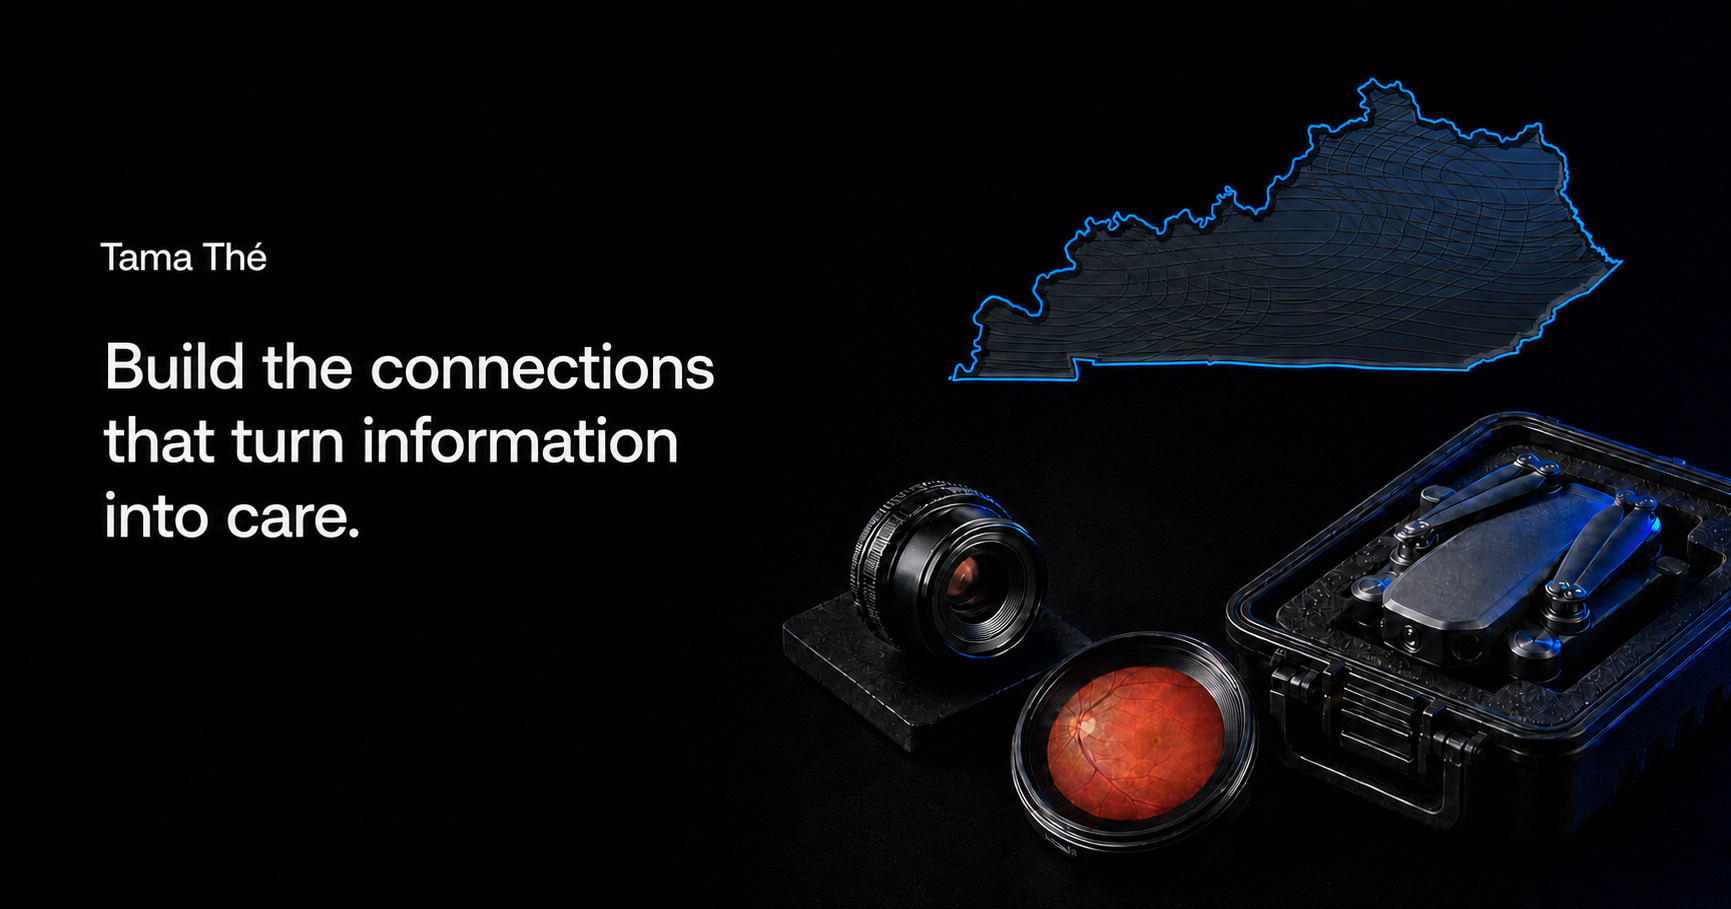
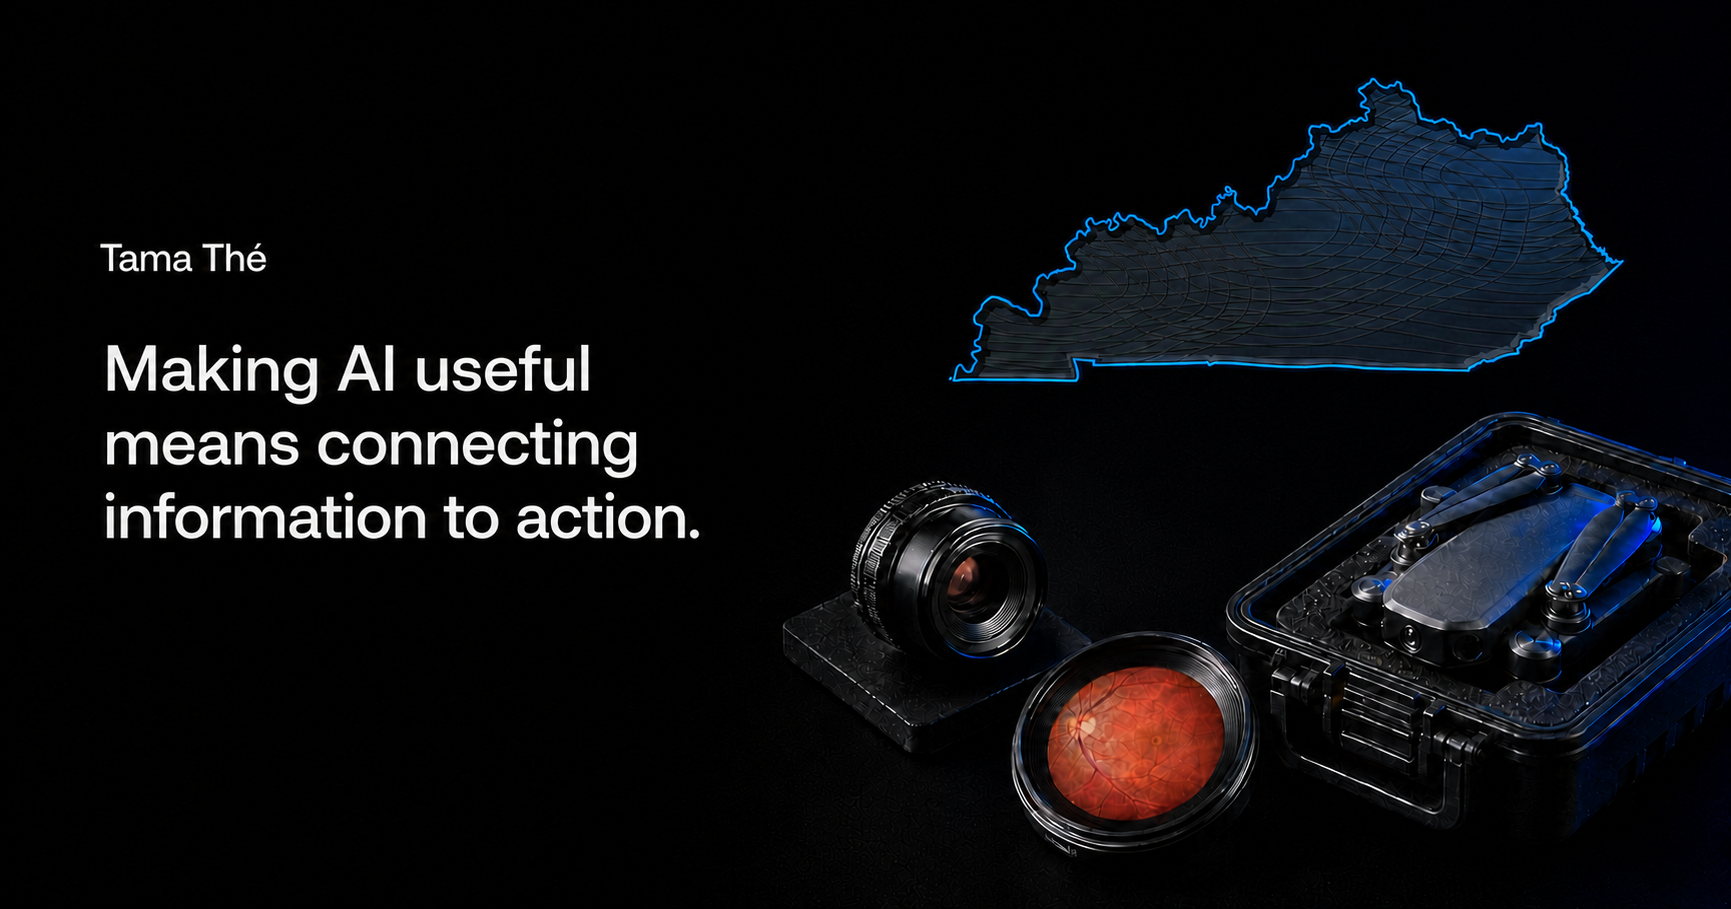
unify site around connecting information to action

diff --git a/src/pages/SpeakingPage.tsx b/src/pages/SpeakingPage.tsx
@@ -24,29 +24,29 @@ export function SpeakingPage() {
 
         <div className="shell video-led-hero-message">
           <div>
-            <p className="page-kicker">Kentucky / Healthcare / AI</p>
+            <p className="page-kicker">Healthcare / Education / Public systems</p>
             <h1>{siteIdentity.thesis}</h1>
           </div>
           <div className="video-led-hero-summary">
             <p>
-              Kentucky already has many of the clinical signals that could help
-              us identify risk earlier. The work is connecting them across
-              institutions and carrying the result all the way to care.
+              AI becomes useful when information reaches the people who can act
+              on it—and when the next step actually happens. My work connects
+              healthcare, education, and public systems around that problem.
             </p>
             <div className="hero-actions">
               <a
                 className="button button-primary"
-                href="#featured-talk"
+                href="#mission"
                 data-analytics-id="hero-watch-argument"
               >
-                Watch the argument <span aria-hidden="true">↓</span>
+                See the throughline <span aria-hidden="true">↓</span>
               </a>
               <a
                 className="button button-outline"
-                href="#mission"
+                href="#featured-talk"
                 data-analytics-id="hero-read-mission"
               >
-                Read the mission
+                Watch the argument
               </a>
             </div>
           </div>
@@ -60,14 +60,13 @@ export function SpeakingPage() {
       >
         <div className="shell mission-case-grid">
           <div className="mission-case-copy">
-            <p className="section-index">The mission</p>
-            <h2 id="mission-title">Finding risk earlier is not enough.</h2>
+            <p className="section-index">The throughline</p>
+            <h2 id="mission-title">The output is not the outcome.</h2>
             <p>
-              Kentucky already has many of the signals. The missing piece is
-              carrying them across organizations, through outreach and
-              referral, and all the way to completed care. That requires the
-              state, universities, health systems, payers, and community
-              providers to build the connections together.
+              A prediction, score, or polished answer can still leave the real
+              problem untouched. The work is designing what happens next: who
+              receives the information, what decision it changes, who owns the
+              follow-through, and how we learn whether it helped.
             </p>
           </div>
 
@@ -79,8 +78,8 @@ export function SpeakingPage() {
               decoding="async"
             />
             <figcaption>
-              <span>The last mile is the whole point.</span>
-              <span>One state / Many systems / Shared responsibility</span>
+              <span>Connect the signal to the next step.</span>
+              <span>Information / Judgment / Action</span>
             </figcaption>
           </figure>
         </div>
@@ -93,15 +92,15 @@ export function SpeakingPage() {
       >
         <div className="shell featured-talk-grid">
           <div className="featured-talk-copy">
-            <p className="section-index">The argument in public / NBME NICE 2026</p>
+            <p className="section-index">One public case / NBME NICE 2026</p>
             <h2 id="featured-talk-title">
-              What if healthcare AI were shared infrastructure?
+              Shared information should produce a useful next step.
             </h2>
             <p>
               In this excerpt, I make the case for governed connections across
-              existing systems—not one giant database or one institution
-              owning every record. The test is whether the network returns a
-              useful next step to the person responsible for care.
+              existing healthcare systems. The goal is not one giant database.
+              It is a network that returns something useful to the person
+              responsible for the next step in care.
             </p>
             <div className="featured-talk-details" aria-label="Video details">
               <span>1:23 excerpt</span>
@@ -147,13 +146,13 @@ export function SpeakingPage() {
 
       <section className="mission-work" id="work" aria-labelledby="work-title">
         <div className="shell section-intro">
-          <p className="section-index">The work</p>
+          <p className="section-index">Healthcare / From signal to care</p>
           <div>
-            <h2 id="work-title">The same problem, seen from different places.</h2>
+            <h2 id="work-title">Three projects. One operating question.</h2>
             <p>
-              These projects begin with different clinical needs. Each one asks
-              what has to happen between identifying a possibility, completing
-              the next step, and learning where people are still being missed.
+              What has to happen after useful information becomes available?
+              Each project connects a signal to a decision, a responsible
+              person, and a way to see whether the next step was completed.
             </p>
           </div>
         </div>
@@ -200,14 +199,13 @@ export function SpeakingPage() {
       >
         <div className="shell story-grid">
           <div className="story-copy">
-            <p className="section-index">Building capacity / TEK 100</p>
-            <h2 id="tek100-title">Teach the principles that survive the next tool.</h2>
+            <p className="section-index">Education / Build the judgment</p>
+            <h2 id="tek100-title">People need practice turning AI output into a decision.</h2>
             <p>
-              Shared infrastructure is not only technical. People across the
-              system need enough practical understanding to test AI, recognize
-              its limits, and decide when it belongs in the work. TEK 100 is a
-              foundational, hands-on AI literacy course co-created for
-              University of Kentucky students.
+              Connecting information to action requires people who can test AI,
+              recognize its limits, and decide when it belongs in the work.
+              TEK 100 gives University of Kentucky students that practice
+              through foundational, hands-on AI literacy.
             </p>
             <div className="featured-talk-details" aria-label="Video details">
               <span>0:31 excerpt</span>
@@ -248,14 +246,13 @@ export function SpeakingPage() {
       >
         <div className="shell story-grid story-grid-media-first">
           <div className="story-copy">
-            <p className="section-index">Building relationships / AI Incubator</p>
-            <h2 id="incubator-feature-title">Give unfinished ideas somewhere to go.</h2>
+            <p className="section-index">Community / Put ideas to work</p>
+            <h2 id="incubator-feature-title">Give unfinished ideas a path to action.</h2>
             <p>
               The AI Incubator gives students, faculty, and staff a place to
-              test ideas with people outside their usual lanes. It is one way
-              to build the relationships this mission requires: bring the
-              problem into the room, find the missing expertise, and move
-              toward a small, testable next step.
+              bring a real problem into the room, find the missing expertise,
+              and move toward a small, testable next step. The community is how
+              ideas cross the disciplinary lines that usually keep them stuck.
             </p>
             <div className="featured-talk-details" aria-label="Video details">
               <span>0:58 film</span>
@@ -310,14 +307,15 @@ export function SpeakingPage() {
             <p>Official recording · KY LRC Committee Meetings</p>
           </div>
           <div className="legislature-copy">
-            <p className="section-index">Public leadership / Kentucky</p>
+            <p className="section-index">Public systems / Build shared direction</p>
             <h2 id="legislature-title">
               Artificial Intelligence at the University of Kentucky
             </h2>
             <p>
-              A presentation to the Kentucky General Assembly Artificial
-              Intelligence Task Force on AI work across the university and UK
-              HealthCare, presented with Hubert Ballard, MD.
+              Presented with Hubert Ballard, MD, this briefing to the Kentucky
+              General Assembly Artificial Intelligence Task Force connected AI
+              work across the university and UK HealthCare to a larger question:
+              what Kentucky needs in order to act together.
             </p>
             <dl className="legislature-details">
               <div>
@@ -352,18 +350,18 @@ export function SpeakingPage() {
         aria-labelledby="engagements-title"
       >
         <div className="shell section-intro">
-          <p className="section-index">Speaking / Selected engagements</p>
+          <p className="section-index">Speaking / Testing the work in public</p>
           <div>
-            <h2 id="engagements-title">Take the argument into the room.</h2>
+            <h2 id="engagements-title">Take the hard part into the room.</h2>
             <p>
-              Talks, workshops, and public conversations are one way I test
-              these ideas with the people who have to build, govern, teach, and
-              use the systems in practice.
+              I use talks, workshops, and public conversations to test these
+              ideas with the people who have to build, govern, teach, and use
+              the systems in practice.
             </p>
           </div>
         </div>
         <div className="shell">
-          <EngagementList engagements={engagements} />
+          <EngagementList engagements={engagements.slice(0, 6)} />
         </div>
       </section>
 
@@ -386,11 +384,11 @@ export function SpeakingPage() {
           </figure>
           <div className="speaker-kit-copy">
             <p className="section-index">Collaboration / Speaking</p>
-            <h2 id="speaker-kit-title">Bring me the part that does not fit neatly.</h2>
+            <h2 id="speaker-kit-title">Start with the problem that crosses the lines.</h2>
             <p>
-              {siteIdentity.bio} I work with people who are trying to connect
-              the technical possibility to the institutional and human work
-              required to make it useful.
+              {siteIdentity.bio} I work with people who need to connect a
+              technical possibility to the institutional and human work that
+              makes it useful.
             </p>
             <div className="speaker-kit-actions">
               <a

diff --git a/index.html b/index.html
@@ -7,15 +7,15 @@
     <meta name="color-scheme" content="dark" />
     <meta
       name="description"
-      content="Tama Thé's work to build the connections that turn health information and AI into completed care across Kentucky."
+      content="Tama Thé connects information to action across healthcare, education, and public systems in Kentucky."
     />
     <link rel="canonical" href="/" />
     <meta property="og:type" content="website" />
     <meta property="og:site_name" content="Tama Thé, MD" />
-    <meta property="og:title" content="Tama Thé, MD | Turning information into care" />
+    <meta property="og:title" content="Tama Thé, MD | Making AI useful" />
     <meta
       property="og:description"
-      content="Tama Thé's work to build the connections that turn health information and AI into completed care across Kentucky."
+      content="Tama Thé connects information to action across healthcare, education, and public systems in Kentucky."
     />
     <meta property="og:url" content="/" />
     <meta property="og:image" content="/og.png" />
@@ -23,16 +23,16 @@
     <meta property="og:image:height" content="909" />
     <meta
       property="og:image:alt"
-      content="Tama Thé — Build the connections that turn information into care, shown beside a sculpted Kentucky map, retinal imaging elements, and a transport drone case."
+      content="Tama Thé — Making AI useful means connecting information to action, shown beside a Kentucky map, retinal imaging elements, and a transport drone case."
     />
     <meta name="twitter:card" content="summary_large_image" />
-    <meta name="twitter:title" content="Tama Thé, MD | Turning information into care" />
+    <meta name="twitter:title" content="Tama Thé, MD | Making AI useful" />
     <meta
       name="twitter:description"
-      content="Tama Thé's work to build the connections that turn health information and AI into completed care across Kentucky."
+      content="Tama Thé connects information to action across healthcare, education, and public systems in Kentucky."
     />
     <meta name="twitter:image" content="/og.png" />
-    <title>Tama Thé, MD | Turning information into care</title>
+    <title>Tama Thé, MD | Making AI useful</title>
   </head>
   <body>
     <div id="root"></div>

diff --git a/src/styles.css b/src/styles.css
@@ -1272,7 +1272,7 @@ a {
 
 .video-led-hero-stage {
   position: relative;
-  height: clamp(380px, 58svh, 680px);
+  height: clamp(300px, 43svh, 520px);
   overflow: hidden;
   background: #020202;
 }
@@ -1360,19 +1360,19 @@ a {
 }
 
 .video-led-hero-message {
-  min-height: 360px;
+  min-height: 300px;
   display: grid;
   grid-template-columns: minmax(560px, 1.3fr) minmax(340px, 0.7fr);
   gap: clamp(56px, 8vw, 132px);
   align-items: end;
-  padding-top: 58px;
-  padding-bottom: 68px;
+  padding-top: 40px;
+  padding-bottom: 46px;
 }
 
 .video-led-hero-message h1 {
-  max-width: 11.5ch;
+  max-width: 15ch;
   margin: 22px 0 0;
-  font-size: clamp(68px, 7vw, 108px);
+  font-size: clamp(58px, 5.5vw, 88px);
   line-height: 0.9;
   font-weight: 620;
   letter-spacing: -0.055em;
@@ -2676,7 +2676,7 @@ a {
   }
 
   .video-led-hero-message h1 {
-    font-size: clamp(50px, 15vw, 68px);
+    font-size: clamp(46px, 13vw, 58px);
   }
 
   .video-led-hero-summary > p {

diff --git a/src/components/SiteShell.tsx b/src/components/SiteShell.tsx
@@ -3,9 +3,8 @@ import { siteIdentity } from "../siteContent";
 import { AnalyticsTracker } from "./AnalyticsTracker";
 
 const navigation = [
-  { label: "Mission", href: "/#mission" },
+  { label: "Purpose", href: "/#mission" },
   { label: "Work", href: "/#work" },
-  { label: "Films", href: "/#featured-talk" },
   { label: "Speaking", href: "/#speaking" },
   { label: "Contact", href: "/#contact" },
 ];
@@ -39,12 +38,12 @@ function SiteFooter() {
       <div className="shell footer-grid">
         <div>
           <p className="section-index">Contact / Collaboration</p>
-          <h2>Bring me the messy version.</h2>
+          <h2>Start with the problem that crosses the lines.</h2>
         </div>
         <div className="footer-copy">
           <p>
-            If the problem crosses institutions, data systems, clinical work,
-            and community care, that is probably where we should start.
+            If useful information is getting stuck between systems, roles, or
+            institutions, that is probably where we should start.
           </p>
           <a
             className="text-link"
@@ -71,7 +70,7 @@ function SiteFooter() {
       </details>
       <div className="shell footer-base">
         <span>© {new Date().getFullYear()} Tama Thé, MD</span>
-        <span>Kentucky / Healthcare / Infrastructure / AI</span>
+        <span>Kentucky / Healthcare / Education / Public systems</span>
       </div>
     </footer>
   );

diff --git a/src/siteContent.ts b/src/siteContent.ts
@@ -47,9 +47,9 @@ export type Engagement = {
 
 export const siteIdentity = {
   name: "Tama Thé, MD",
-  thesis: "Build the connections that turn information into care.",
+  thesis: "Making AI useful means connecting information to action.",
   bio:
-    "I am a pediatric emergency physician and medical educator working across medicine, public health, education, and AI. My work focuses on what happens after a useful signal appears: how it reaches the right person, who owns the next step, and whether the patient actually receives care.",
+    "I am a pediatric emergency physician and medical educator working across healthcare, public systems, education, and AI. I focus on the handoff between a useful signal and a completed next step: who receives it, who acts, and whether it changes what happens.",
   email: "mailto:[email redacted]?subject=Healthcare%20AI%20conversation",
 };
 

diff --git a/src/siteManifest.ts b/src/siteManifest.ts
@@ -10,9 +10,9 @@ export type RouteDefinition = {
 export const homeRoute: RouteDefinition = {
   id: "home",
   path: "/",
-  title: "Tama Thé, MD | Turning information into care",
+  title: "Tama Thé, MD | Making AI useful",
   description:
-    "Tama Thé's work to build the connections that turn health information and AI into completed care across Kentucky.",
+    "Tama Thé connects information to action across healthcare, education, and public systems in Kentucky.",
 };
 
 export const notFoundRoute: RouteDefinition = {